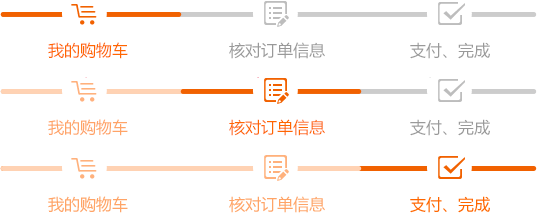
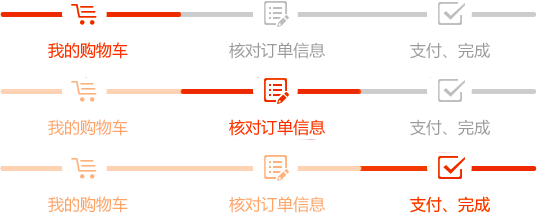
购物车页面更新

diff --git a/01_Website/ECommerce.UI/Resources/themes/default/css/checkout.css b/01_Website/ECommerce.UI/Resources/themes/default/css/checkout.css
@@ -15,7 +15,7 @@ body{
 	left:0;	
 }
 .khaki {
-	color:#f60;
+	color:#b02a31;
 }
 .wraper {
 	width:990px;
@@ -70,7 +70,7 @@ h1{
 	line-height:26px;
 	font-size:24px;
 	font-family:"microsoft yahei",arial;
-	color:#f60;
+	color:#b02a31;
 	font-weight:normal;
 	padding:20px 0;
 }
@@ -89,7 +89,7 @@ h1{
 .tipmsg_cart .tip_label{
 	position:absolute;
 	font-size:14px;
-	color:#f60;
+	color:#b02a31;
 	margin:0 0 0 -85px;
 }
 .tipmsg .corner{
@@ -117,13 +117,13 @@ h1{
 	margin:10px 0 15px;
 }
 .redB{
-	color:#f60;
+	color:#b02a31;
 }
 .grayB{
 	color:#626164 !important;
 }
 a.grayB:hover{
-	color:#f60 !important;
+	color:#b02a31 !important;
 }
 .grayC{
 	color:#3f3f3f !important;
@@ -140,7 +140,7 @@ a.grayB:hover{
 }
 .oprate a{
 	width:21px;
-	height:23px;
+	height:24px;
 	border:1px solid #d8d8d8;
 	margin-right:-1px;
 	float:left;
@@ -154,7 +154,7 @@ a.grayB:hover{
 .oprate .intxt{
 	float:left;
 	padding:2px;
-	height:19px;
+	height:24px;
 	line-height:19px;
 	border:1px solid #d8d8d8;
 	width:40px;
@@ -185,7 +185,7 @@ a.grayB:hover{
 }
 .cartlist_cpt_type1 .table th{
 	color:#fff;
-	background-color:#fe8008;
+	background-color:#b02a31;
 }
 .cartlist_empty{background:url(../Nest/img/cartempty.png) no-repeat 160px center;padding:50px 10px 50px 280px;background-color:#fff;}
 .cartlist_empty h2{font-size:18px;font-weight:normal;font-family:"microsoft yahei",arial;}
@@ -213,7 +213,7 @@ a.grayB:hover{
 }
 .cartlist_self .table .flagship .iconB{
 	background-position:5px -758px;
-	color:#f60;
+	color:#b02a31;
 }
 .border{
 	border-bottom:1px solid #d8d8d8;
@@ -324,7 +324,7 @@ a.grayB:hover{
 	color:#555;
 }
 .table .pro .tit a:hover{
-	color:#f60;	
+	color:#b02a31;	
 }
 .table .pro .giftlist{
 	padding-top:4px;
@@ -336,7 +336,7 @@ a.grayB:hover{
 	color:#999;
 }
 .table a.gray:hover {
-	color:#f60;
+	color:#b02a31;
 }
 .table .limitip{
 	text-align:center;
@@ -381,7 +381,7 @@ a.grayB:hover{
 	border-top:1px solid #e5e5e5;
 }
 .totalPlane .table .summary{
-	color:#f60;
+	color:#b02a31;
 	font-size:18px;
 	font-weight:bold;
 	/*background-position:left -223px;
@@ -399,7 +399,7 @@ a.grayB:hover{
 .totalPlane{
 	position:relative;
 	background:#fff;
-	border-top:2px solid #fe8008;
+	border-top:2px solid #b02a31;
 }
 
 .totalPlane span,
@@ -419,7 +419,6 @@ a.grayB:hover{
 	height:22px;
 	line-height:22px;
 	color:#666;
-	width:66px;
 	display:inline-block;
 	text-align:left;
 	zoom:1;
@@ -427,7 +426,7 @@ a.grayB:hover{
 }
 .btn_clear:hover,
 .btn_goon:hover{
-	color:#f60;
+	color:#b02a31;
 	text-decoration:none;
 }
 .btn_goon:hover{
@@ -436,7 +435,6 @@ a.grayB:hover{
 .btn_clear{
 	background-position:-97px -215px;
 	padding-left:37px;
-	width:76px;
 }
 .btn_clear:hover{
 	background-position:0 -564px;
@@ -509,7 +507,7 @@ a.grayB:hover{
 .prolistbox h2{
 	height:38px;
 	line-height:38px;
-	color:#f60;
+	color:#b02a31;
 	padding-left:11px;
 	border-bottom:1px dotted #c9c9c9;
 	border-top:1px dotted #c9c9c9;
@@ -591,7 +589,7 @@ a.grayB:hover{
 	color:#555;
 }
 .prolistbox .prolist .tit a:hover{
-	color:#f60;
+	color:#b02a31;
 }
 .prolistbox .prolist .ck_action input{
 	vertical-align:middle;
@@ -655,9 +653,9 @@ a.grayB:hover{
 .checkorder{padding:30px 0 0;border:0 none #ddd;}
 .checkorder h2{padding-bottom:15px;font-size:16px;line-height:16px;font-weight:normal;color:#333; font-family:"microsoft yahei",arial;}
 .step-box{ padding-top:1px; border:2px solid #fff; border-top:none; border-top:none; background-color:#fff; *zoom:1;}
-.step-box-cur{ border-color:#f60;}
+.step-box-cur{ border-color:#b02a31;}
 .step-box h2{ *position:relative; padding-left:15px; padding-top:20px; margin:-1px -2px 0; border-top:2px solid #D6D6D6;}
-.step-box-cur h2{border-top-color:#f60;}
+.step-box-cur h2{border-top-color:#b02a31;}
 .step-box .selectads,
 .step-box .article,
 .step-box .invest,
@@ -695,7 +693,7 @@ a.grayB:hover{
 .myaddrlist .curr{font-weight:normal;color:#222;}
 .myaddrlist .edit,
 .myaddrlist .sep{display:none;}
-.myaddrlist .name_newaddr{font-weight:normal;color:#f60;}
+.myaddrlist .name_newaddr{font-weight:normal;color:#b02a31;}
 .myaddrlist .curr .edit,
 .step-box .myaddrlist .li-hover .edit{display:inline-block; position:relative; top:1px; *top: 0; color:#007ccf;}
 .myaddrlist .curr .sep,
@@ -724,14 +722,14 @@ a.grayB:hover{
 .formsubB .action .btn.cancel,
 .formsubB .action .btn.cancel:hover{width:109px;margin-left:10px;background-position:0 -582px;}
 .formsubB .action .btn span{padding:0;background:none;}
-.need{color:#f60;}
+.need{color:#b02a31;}
 .newaddr{padding:13px 5px 0;background-color:#fff;border:1px solid #fff; color:#666; border-top:1px dotted #e5e5e5;}
 .checkout .Validform_checktip{vertical-align:middle;}
 .checkorder .tipmsg{padding:10px 20px 5px;}
 .checkorder .tipmsg .Validform_wrong{padding:0px;color:#e52142;}
 .checkorder .tipmsg li{border-top:0 none #ffcec3; padding:3px 0;}
 .checkorder .tipmsg li a{color:#626164;}
-.checkorder .tipmsg li a:hover{color:#f60;}
+.checkorder .tipmsg li a:hover{color:#b02a31;}
 .lineB{
 	height:0;
 	border:0;
@@ -796,7 +794,7 @@ a.grayB:hover{
 	border-bottom:1px solid #f5f5f5;
 	padding-left:15px;
 	font-size:12px;
-	color:#f60;
+	color:#b02a31;
 }
 .paytype_selected p{
 	line-height:28px;
@@ -827,12 +825,12 @@ a.grayB:hover{
 }
 .paytype .tabitem:hover,
 .invest .tabitem:hover{
-	color:#f60;
+	color:#b02a31;
 }
 .paytype label.now,
 .invest label.now{
-	border-top-color:#f60;
-	color:#f60;
+	border-top-color:#b02a31;
+	color:#b02a31;
 	font-weight:normal;
 	background-color:#fff;
 }
@@ -927,7 +925,7 @@ a.grayB:hover{
 }
 .banklist .current a,
 .banklist a:hover{
-	border-color:#f60;
+	border-color:#b02a31;
 }
 .banklist label{
     display: none;
@@ -945,7 +943,7 @@ a.grayB:hover{
 .banklistalter li{padding-top:15px; padding-bottom:5px;}
 .bank-selected{ position:relative; overflow:hidden;}
 .bank-selected .primary{ float:left;}
-.bank-selected li a{ cursor:default; border-color:#f60!important;}
+.bank-selected li a{ cursor:default; border-color:#b02a31!important;}
 .bank-selected li a:hover img{ cursor:default;}
 .bank-selected .bw-return{ position:absolute; display:inline-block; top: 50%; margin-top:-7px;}
 .bank-selected .bw-return:hover{ text-decoration:none;}
@@ -1027,24 +1025,24 @@ a:hover .icon-return{ background-position:0 -1900px;}
 .gatherinfo ul{}
 .gatherinfo li{text-align:right; font-size:14px; font-weight:normal; padding:6px 0; font-family:Microsoft Yahei, verdana; color:#646464;}
 .gatherinfo .sum{color:#333; white-space:nowrap; margin-bottom:10px;}
-.gatherinfo .sum .price16{padding-left:10px;color:#f60;background:url(../Nest/img/price.png) 0 -295px no-repeat; background-position:0 -296px\9;}
+.gatherinfo .sum .price16{padding-left:10px;color:#b02a31;background:url(../Nest/img/price.png) 0 -295px no-repeat; background-position:0 -296px\9;}
 :root .gatherinfo .sum .price16{ background-position:0 -295px;}
 .gatherinfo .tit{display:inline-block; width:auto; float:none; text-align:right;font-family:"Microsoft Yahei",simsun,"Arial"; white-space:nowrap; color:#646464;}
 .gatherinfo .price14{ font-family:Tahoma;background:url(../Nest/img/price_g.png) 0 -309px no-repeat; }
-.gatherinfo .total{font-size:24px;color:#f60; line-height:30px; font-weight:bold;}
-.gatherinfo .total_num{font-weight:bold;font-size:24px;color:#f60;}
+.gatherinfo .total{font-size:24px;color:#b02a31; line-height:30px; font-weight:bold;}
+.gatherinfo .total_num{font-weight:bold;font-size:24px;color:#b02a31;}
 .gatherinfo .total_num .price24{background:url(../Nest/img/price.png) 0 -325px no-repeat; padding-left:17px; vertical-align:middle;}
 .gatherinfo .bdr{border-right:1px solid #b1e0fc; padding-right:30px;}
 .togather{ font-size:14px; font-weight:bold; vertical-align:middle; margin-right:50px; position:relative; top:5px;}
 .togather .orange{font-size:26px; font-weight:normal; font-family:Verdana; position:relative; top:-12px;}
 .togather p{text-align:right;}
 .togather .total{
-	color:#f60;
+	color:#b02a31;
 	font-size:30px;
 }
 .togather .price30{
 	font-size:30px;
-	color:#f60;
+	color:#b02a31;
 	background:url(../Nest/img/price.png) no-repeat 0 -324px;
 	padding-left:26px;
 }
@@ -1165,7 +1163,7 @@ a:hover .icon-return{ background-position:0 -1900px;}
 	color:#fff;
 	text-indent:35px;
 	/*background:url(../Nest/img/logtit.gif) repeat-x;*/
-	background-color:#f60;
+	background-color:#b02a31;
 }
 .payhelpbox .inner{
 	padding:25px 38px;
@@ -1308,13 +1306,13 @@ a:hover .icon-return{ background-position:0 -1900px;}
 	border-right:1px solid #e9e9e9;
 }
 .prolistRecommend .tab .now{
-	border-top-color:#f60;
-	color:#f60;
+	border-top-color:#b02a31;
+	color:#b02a31;
 	background-color:#fff;
 }
 .prolistRecommend .tab a:hover{
 	text-decoration:none;
-	color:#f60;
+	color:#b02a31;
 }
 .prolistRecommend .tabc{
 	height:268px;
@@ -1343,7 +1341,7 @@ a:hover .icon-return{ background-position:0 -1900px;}
 	color:#666;
 }
 .prolistRecommend .prolist .tit a:hover{
-	color:#f60;
+	color:#b02a31;
 }
 .prolistRecommend .prolist .pp{
 	position:relative;
@@ -1541,12 +1539,12 @@ a:hover .icon-return{ background-position:0 -1900px;}
 	text-align:center;
 }
 .select_area dd .tab a:hover{
-	color:#f60;
+	color:#b02a31;
 }
 .select_area dd .tab .now{
 	background:#fff;
 	border-bottom-color:#fff;
-	color:#f60;
+	color:#b02a31;
 }
 .select_area dd .tabc .selectareap{
 	padding:5px 0 5px 50px;
@@ -1574,10 +1572,10 @@ a:hover .icon-return{ background-position:0 -1900px;}
 .select_area dd .tabc .selectareap a:hover{
 	background:#fff8f3;
 	border-radius:5px;
-	color:#f60;
+	color:#b02a31;
 }
 .select_area dd .tabc .selectareap .now{
-	background:#f60;
+	background:#b02a31;
 	color:#fff;
 	border-radius:3px;
 }

diff --git a/01_Website/ECommerce.UI/Resources/themes/default/css/global.css b/01_Website/ECommerce.UI/Resources/themes/default/css/global.css
@@ -22,7 +22,7 @@ blockquote{ margin:0; padding:0; display:block;}
 .gray,.hasDefaultText{color:#c2c2c2;}
 .grayB{color:#999;}
 .grayC{color:#333;}
-.orange{color:#ff6801 !important;}
+.orange{color:#b02a31 !important;}
 .orangeB{color:#ff3600;}
 .green{color:#008902;}
 .blue{color:#007ccf;}
@@ -2196,7 +2196,7 @@ b{font-weight:normal; display:inline-block; margin:0 8px;}
 	left:16px;
 }
 .floatFunc {
-	display:block;
+	display:none;
 	width:101px;
 	overflow:hidden;
 	position:fixed;

diff --git a/01_Website/ECommerce.UI/Resources/themes/default/css/style.css b/01_Website/ECommerce.UI/Resources/themes/default/css/style.css
@@ -446,7 +446,7 @@ i{
     font-size: 18px;
     font-weight: 700;
     margin-right: 8px;
-    color: #f10214;
+    color: #f10214 !important;
 }
 .price_new b{
 	font-size:14px;
